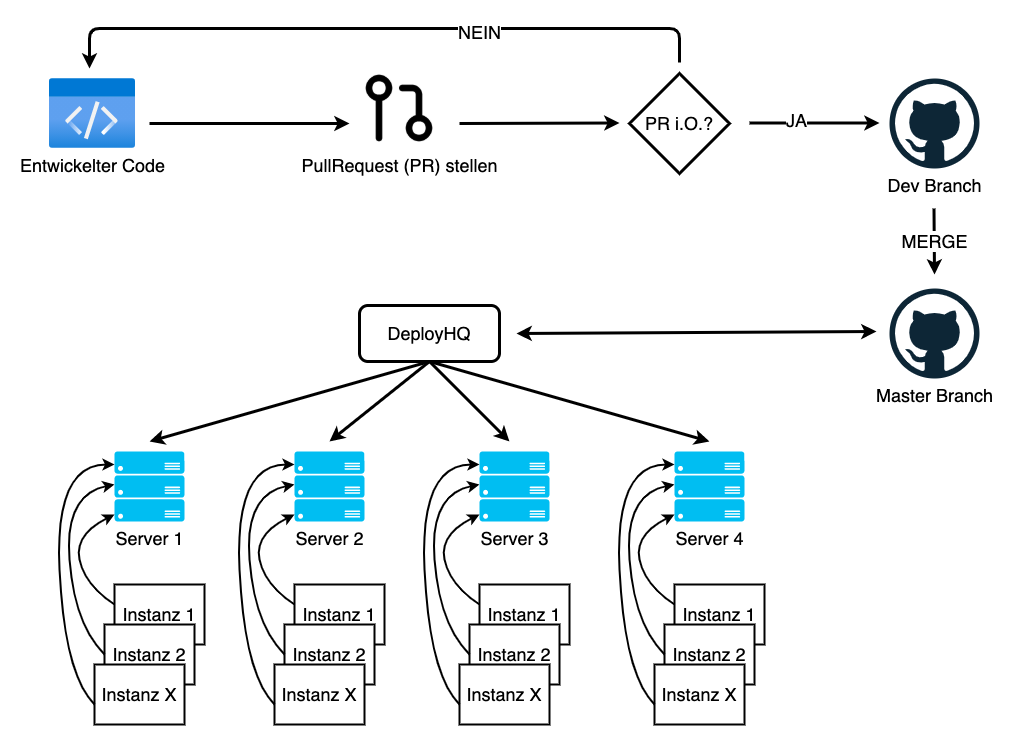
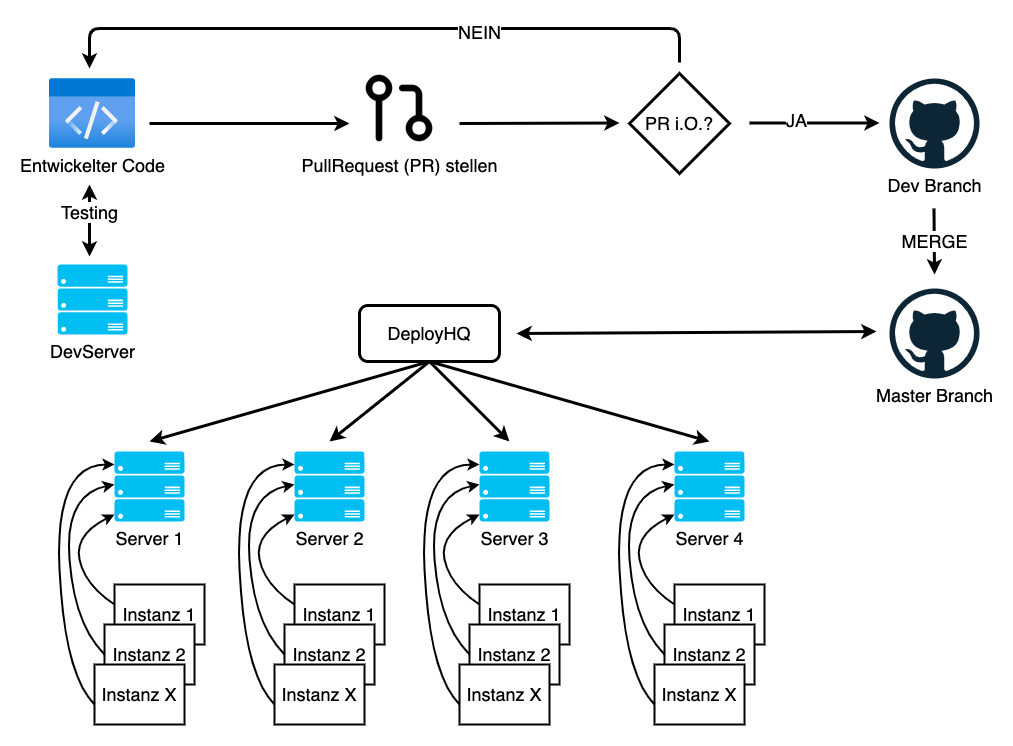
extended deployment figure and added content

Changed region(s): [[0.0306, 0.2466, 0.153, 0.4933]]

diff --git a/source/07_analyse_istZustand_ts.md b/source/07_analyse_istZustand_ts.md
@@ -11,7 +11,7 @@ Der Verein erstellt sich über die Homepage teamsports2.de eine Testseite. Dabei
 ![Abbildung 4: Ansicht TeamSports2 Frontend](source/figures/TeamSports2_Frontend.png) { width=50% }
 Abbildung 4
 
-Der Server, worauf sich die Testseite des Vereins unter einer Subdomain, wie testseite.teamsports2.de befindet ist ein Apache-Server mit Ubuntu-Betriebssystem. Über die Subdomain sowie die mit dem generieren der Seite erstellten Zugangsdaten kann der Nutzer die Seite nach seinen Wünschen bearbeiten. Der Aufbau des Backends ist in Abbildung fünf aufgezeigt.
+Der Testseite befindet sich dann unter einer Subdomain, wie hm.teamsports2.de, mit einer eigenen Datenbank auf einem Apache-Server. Über die Subdomain sowie die mit dem generieren der Seite erstellten Zugangsdaten kann der Nutzer die Seite nach seinen Wünschen bearbeiten. Der Aufbau des Backends ist in Abbildung fünf aufgezeigt.
 
 ![Abbildung 5: Ansicht TeamSports2 Backend](source/figures/TeamSports2_Backend.png) { width=50% }
 Abbildung 5
@@ -32,13 +32,22 @@ Der Nutzer hat bei der Gestaltung seiner Seite sehr viele Optionen, welche vom a
 
 Während der 90 tägigen Testphase kann der Nutzer diese und viele weitere Funktionen kostenlos testen. Dabei gibt, wie sonst oft üblich, keine Einschränkungen bei der Testversion. Sollte sich der Nutzer vor oder nach Ablauf der 90 Tage für den Kauf seiner Testseite entscheiden wird die Instanz vom vom sogenannten Generatorserver, wo die Instanz für den Testzeitraum liegt, auf einen Liveserver umgezogen.
 Hierbei wird eine exakte Kopie der Instanz erstellt und mittels eines Skripts auf den Liveserver übertragen. Der Nutzer kann dann auch seine Domain über TeamSports2 registrieren lassen, welche dann wiederum mit der Instanz auf dem Liveserver per DNS verknüpft wird. Die Instanz auf dem Testserver wird nach erfolgten Umzug gelöscht.
-Auch auf dem Liveserver erhält jeder Nutzer eine eigene Instanz mit einer eigenen Datenbank.
 
-## Verwendete Technologien und Tools
+## Deployment-Prozess
+
+Aktuell umfasst TeamSports2 über 150 Live-Instanzen unter einer jeweils eigenen Domain. Diese sind auf vier Apache-Server mit einem Ubunutbetriebssystem verteilt, welche von einem externen Hostinganbieter gehostet werden. Die Daten jeder Instanz liegen auf jeweils einer eigenen MySQL-Datenbank, welche wiederum auf dem Server gespeichert ist.
+
+Anhand nachfolgender Abbildung wird der Entwicklungs- sowie Deploymentprozess dargestellt.
 
 ![Abbildung 6: Deployment-Prozess TeamSports2](source/figures/TeamSports2_Deployment.png) { width=50% }
-Abbildung 5
+Abbildung 6
 
+In mehreren GitHub-Repositories liegt der Code der Produktionsumgebung. Dabei gibt es einen Entwicklungs(Dev)- sowie Masterbranch, welche immer die gleichen Stände aufweisen. Zum Entwickeln von Code wird ein eingenständiger Entwicklungsserver bereitgestellt, worunter zur Produktonsumgebung adäquate Testseiten erstellt werden können. Dadurch muss nicht auf Liveservern, welche die Kundeninstanzen betreffen würde, getestet werden. Soll neuer Code entwickelt werden kann sich vom Entwicklungs- oder Masterbranch der aktuell Code geholt und ein Featurebranch erstellt werden.
+Mithilfe des Webservices  „DeployHQ“ wurde eine Build- und Deployment Pipeline aufgebaut. DeployHQ ist mit GitHub verbunden, wodurch auch alle mit dem Repository verbundenen Featurebranches auf die gewünschte Testinstanz deployed werden können.
+Ist der Entwickler mit dem Code fertig wird ein PullRequest gestellt. Sobald dieser geprüft und der PullRequest genehmigt wurde, erfolgt ein Merge in den Entwicklungsbranch. Hier werden bei größeren Releases mehrere Features oder Anpassungen gesammelt um diese dann gemeinsam in den Masterbranch zu mergen.
+
+Sobald der für den Release relevante Code vollständig im Masterbranch liegt kann die Deployment-Pipeline angestoßen werden. Dabei wird vom Masterbranch der aktuelle Code synchronisiert und dann durch das Secure Shell (SSH) Protokoll an die Server übertragen. Jede Instanz hat in DeployHQ eine eigene Konfiguration, wodurch festgelegt werden kann auf welchen Pfad auf dem jeweilgen Server deployed werden soll.
+Beim Deployen werden nur Dateien an die Kundeninstanzen übertragen, welche nicht durch eine Individualisierung, wie die Datei für das Favicon, auf der Instanz betroffen sein können. Bedeutet es werden die Controller, Models und die View deployed, wobei Controller und Model jeweils separat von der View deployed werden. 
 
 ## Architektur 
 
